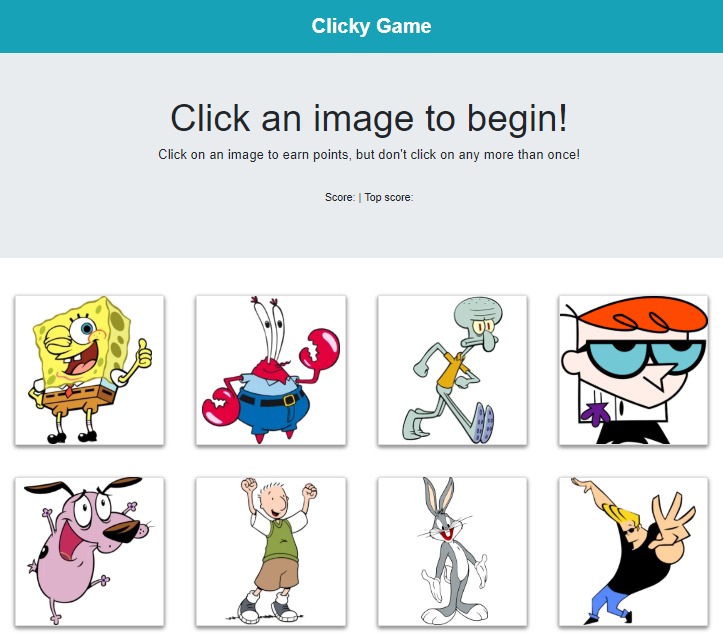
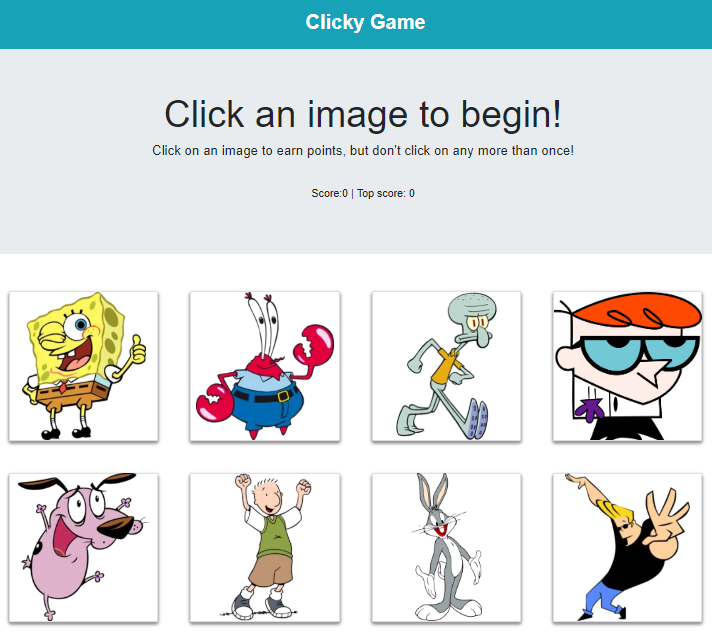
Updates

diff --git a/index.html b/index.html
@@ -1,1 +1,1 @@
-<!doctype html><html lang="en"><head><meta charset="utf-8"/><link rel="shortcut icon" href="/click-game/favicon.ico"/><meta name="viewport" content="width=device-width,initial-scale=1,shrink-to-fit=no"/><meta name="theme-color" content="#000000"/><link rel="manifest" href="/click-game/manifest.json"/><link rel="stylesheet" href="https://stackpath.bootstrapcdn.com/bootstrap/4.3.1/css/bootstrap.min.css" integrity="sha384-ggOyR0iXCbMQv3Xipma34MD+dH/1fQ784/j6cY/iJTQUOhcWr7x9JvoRxT2MZw1T" crossorigin="anonymous"><title>Clicky Game</title><link href="/click-game/static/css/main.f2d32bf1.chunk.css" rel="stylesheet"></head><body><noscript>You need to enable JavaScript to run this app.</noscript><div id="root"></div><script>!function(f){function e(e){for(var r,t,n=e[0],o=e[1],u=e[2],i=0,l=[];i<n.length;i++)t=n[i],c[t]&&l.push(c[t][0]),c[t]=0;for(r in o)Object.prototype.hasOwnProperty.call(o,r)&&(f[r]=o[r]);for(s&&s(e);l.length;)l.shift()();return p.push.apply(p,u||[]),a()}function a(){for(var e,r=0;r<p.length;r++){for(var t=p[r],n=!0,o=1;o<t.length;o++){var u=t[o];0!==c[u]&&(n=!1)}n&&(p.splice(r--,1),e=i(i.s=t[0]))}return e}var t={},c={1:0},p=[];function i(e){if(t[e])return t[e].exports;var r=t[e]={i:e,l:!1,exports:{}};return f[e].call(r.exports,r,r.exports,i),r.l=!0,r.exports}i.m=f,i.c=t,i.d=function(e,r,t){i.o(e,r)||Object.defineProperty(e,r,{enumerable:!0,get:t})},i.r=function(e){"undefined"!=typeof Symbol&&Symbol.toStringTag&&Object.defineProperty(e,Symbol.toStringTag,{value:"Module"}),Object.defineProperty(e,"__esModule",{value:!0})},i.t=function(r,e){if(1&e&&(r=i(r)),8&e)return r;if(4&e&&"object"==typeof r&&r&&r.__esModule)return r;var t=Object.create(null);if(i.r(t),Object.defineProperty(t,"default",{enumerable:!0,value:r}),2&e&&"string"!=typeof r)for(var n in r)i.d(t,n,function(e){return r[e]}.bind(null,n));return t},i.n=function(e){var r=e&&e.__esModule?function(){return e.default}:function(){return e};return i.d(r,"a",r),r},i.o=function(e,r){return Object.prototype.hasOwnProperty.call(e,r)},i.p="/click-game/";var r=window.webpackJsonp=window.webpackJsonp||[],n=r.push.bind(r);r.push=e,r=r.slice();for(var o=0;o<r.length;o++)e(r[o]);var s=n;a()}([])</script><script src="/click-game/static/js/2.f60c3f33.chunk.js"></script><script src="/click-game/static/js/main.9148f375.chunk.js"></script></body></html><script src="https://code.jquery.com/jquery-3.3.1.slim.min.js" integrity="sha384-q8i/X+965DzO0rT7abK41JStQIAqVgRVzpbzo5smXKp4YfRvH+8abtTE1Pi6jizo" crossorigin="anonymous"></script><script src="https://cdnjs.cloudflare.com/ajax/libs/popper.js/1.14.7/umd/popper.min.js" integrity="sha384-UO2eT0CpHqdSJQ6hJty5KVphtPhzWj9WO1clHTMGa3JDZwrnQq4sF86dIHNDz0W1" crossorigin="anonymous"></script><script src="https://stackpath.bootstrapcdn.com/bootstrap/4.3.1/js/bootstrap.min.js" integrity="sha384-JjSmVgyd0p3pXB1rRibZUAYoIIy6OrQ6VrjIEaFf/nJGzIxFDsf4x0xIM+B07jRM" crossorigin="anonymous"></script>
+<!doctype html><html lang="en"><head><meta charset="utf-8"/><link rel="shortcut icon" href="/click-game/favicon.ico"/><meta name="viewport" content="width=device-width,initial-scale=1,shrink-to-fit=no"/><meta name="theme-color" content="#000000"/><link rel="manifest" href="/click-game/manifest.json"/><link rel="stylesheet" href="https://stackpath.bootstrapcdn.com/bootstrap/4.3.1/css/bootstrap.min.css" integrity="sha384-ggOyR0iXCbMQv3Xipma34MD+dH/1fQ784/j6cY/iJTQUOhcWr7x9JvoRxT2MZw1T" crossorigin="anonymous"><title>Clicky Game</title><link href="/click-game/static/css/main.f2d32bf1.chunk.css" rel="stylesheet"></head><body><noscript>You need to enable JavaScript to run this app.</noscript><div id="root"></div><script>!function(f){function e(e){for(var r,t,n=e[0],o=e[1],u=e[2],i=0,l=[];i<n.length;i++)t=n[i],c[t]&&l.push(c[t][0]),c[t]=0;for(r in o)Object.prototype.hasOwnProperty.call(o,r)&&(f[r]=o[r]);for(s&&s(e);l.length;)l.shift()();return p.push.apply(p,u||[]),a()}function a(){for(var e,r=0;r<p.length;r++){for(var t=p[r],n=!0,o=1;o<t.length;o++){var u=t[o];0!==c[u]&&(n=!1)}n&&(p.splice(r--,1),e=i(i.s=t[0]))}return e}var t={},c={1:0},p=[];function i(e){if(t[e])return t[e].exports;var r=t[e]={i:e,l:!1,exports:{}};return f[e].call(r.exports,r,r.exports,i),r.l=!0,r.exports}i.m=f,i.c=t,i.d=function(e,r,t){i.o(e,r)||Object.defineProperty(e,r,{enumerable:!0,get:t})},i.r=function(e){"undefined"!=typeof Symbol&&Symbol.toStringTag&&Object.defineProperty(e,Symbol.toStringTag,{value:"Module"}),Object.defineProperty(e,"__esModule",{value:!0})},i.t=function(r,e){if(1&e&&(r=i(r)),8&e)return r;if(4&e&&"object"==typeof r&&r&&r.__esModule)return r;var t=Object.create(null);if(i.r(t),Object.defineProperty(t,"default",{enumerable:!0,value:r}),2&e&&"string"!=typeof r)for(var n in r)i.d(t,n,function(e){return r[e]}.bind(null,n));return t},i.n=function(e){var r=e&&e.__esModule?function(){return e.default}:function(){return e};return i.d(r,"a",r),r},i.o=function(e,r){return Object.prototype.hasOwnProperty.call(e,r)},i.p="/click-game/";var r=window.webpackJsonp=window.webpackJsonp||[],n=r.push.bind(r);r.push=e,r=r.slice();for(var o=0;o<r.length;o++)e(r[o]);var s=n;a()}([])</script><script src="/click-game/static/js/2.f60c3f33.chunk.js"></script><script src="/click-game/static/js/main.c7987f36.chunk.js"></script></body></html><script src="https://code.jquery.com/jquery-3.3.1.slim.min.js" integrity="sha384-q8i/X+965DzO0rT7abK41JStQIAqVgRVzpbzo5smXKp4YfRvH+8abtTE1Pi6jizo" crossorigin="anonymous"></script><script src="https://cdnjs.cloudflare.com/ajax/libs/popper.js/1.14.7/umd/popper.min.js" integrity="sha384-UO2eT0CpHqdSJQ6hJty5KVphtPhzWj9WO1clHTMGa3JDZwrnQq4sF86dIHNDz0W1" crossorigin="anonymous"></script><script src="https://stackpath.bootstrapcdn.com/bootstrap/4.3.1/js/bootstrap.min.js" integrity="sha384-JjSmVgyd0p3pXB1rRibZUAYoIIy6OrQ6VrjIEaFf/nJGzIxFDsf4x0xIM+B07jRM" crossorigin="anonymous"></script>

diff --git a/static/js/main.c7987f36.chunk.js b/static/js/main.c7987f36.chunk.js
@@ -1,0 +1,2 @@
+(window.webpackJsonp=window.webpackJsonp||[]).push([[0],[,,,,,,function(e){e.exports=[{id:1,name:"SpongeBob",image:"https://vignette.wikia.nocookie.net/spongebobgalaxy/images/0/07/SpongeBob_SquarePants.png/revision/latest?cb=20171228024014",occupation:"Fry Cook",location:"A Pineapple Under the Sea"},{id:2,name:"Mr. Krabs",image:"https://vignette3.wikia.nocookie.net/vsbattles/images/8/80/Mr._Krabs.png/revision/latest?cb=20150919162131",occupation:"Restaurant Owner",location:"A Giant Anchor"},{id:3,name:"Squidward",image:"https://vignette2.wikia.nocookie.net/fictionalcharacters/images/a/ac/Squidward.png/revision/latest?cb=20131121012626",occupation:"Cashier",location:"An Easter Island Head"},{id:4,name:"Dexter",image:"https://s-media-cache-ak0.pinimg.com/originals/fe/32/49/fe32495d45283cd6860ae122f0aeaad9.png",occupation:"Boy Genius",location:"A Secret Laboratory"},{id:5,name:"Courage",image:"https://vignette4.wikia.nocookie.net/vsbattles/images/3/39/Courage-0.png/revision/latest?cb=20160719055423",occupation:"A Cowardly Dog",location:"Nowhere, Kansas"},{id:6,name:"Doug Funnie",image:"https://vignette1.wikia.nocookie.net/doug/images/3/3b/Doug001.gif/revision/latest?cb=20110807170511",occupation:"Student",location:"Bluffington"},{id:7,name:"Bugs Bunny",image:"https://vignette2.wikia.nocookie.net/deathbattlefanon/images/2/2b/Bugs_Bunny.png/revision/latest?cb=20151206010607",occupation:"Looney Toon",location:"A Rabbit Burrow"},{id:8,name:"Johnny Bravo",image:"http://vignette3.wikia.nocookie.net/p__/images/9/9a/Johnny_Bravo.png/revision/latest?cb=20131031233339&path-prefix=protagonist",occupation:"Ladies Man",location:"Aron City"},{id:9,name:"Tommy Pickles",image:"https://vignette4.wikia.nocookie.net/uncyclopedia/images/e/e4/Tommy_Pickles.png/revision/latest?cb=20110530102641",occupation:"Adventurer",location:"California"},{id:10,name:"Rocko",image:"http://vignette3.wikia.nocookie.net/rockosmodernlife/images/9/9e/Rockos-modern-life-4e582a8f06a41.png/revision/latest?cb=20130522173416",occupation:"Cashier",location:"O-Town, California"},{id:11,name:"Captain Planet",image:"http://vignette2.wikia.nocookie.net/dragon-rap-battles/images/b/b6/Captain_Planet.png/revision/latest?cb=20160911200836",occupation:"Superhero",location:"Earth"},{id:12,name:"Ickis",image:"http://static.tvtropes.org/pmwiki/pub/images/ickis.png",occupation:"Ahhhh! A Real Monster!",location:"Under a City Dump"}]},,,function(e,t,a){e.exports=a(21)},,,,,,function(e,t,a){},function(e,t,a){},function(e,t,a){},function(e,t,a){},function(e,t,a){},function(e,t,a){},function(e,t,a){"use strict";a.r(t);var n=a(0),o=a.n(n),i=a(2),r=a.n(i),c=a(3),s=a(4),l=a(7),m=a(5),u=a(8);a(15);var g=function(e){return o.a.createElement("div",{className:"card m-4 lg-sm-md",onClick:function(){return e.shuffleImages(e)}},o.a.createElement("img",{className:"card-img-top",alt:e.name,src:e.image}))};a(16);var p=function(e){return o.a.createElement("div",{className:"container"},e.children)};a(17);var d=function(e){return o.a.createElement("div",{className:"jumbotron jumbotron-fluid"},o.a.createElement("div",{className:"container"},o.a.createElement("h1",{className:"display-4 text-center"},"Click an image to begin!"),o.a.createElement("p",{className:"lead text-center"},"Click on an image to earn points, but don't click on any more than once!"),o.a.createElement("br",null),o.a.createElement("p",{className:"scores text-center"},"Score:",e.score," | Top score: ",e.topScore)))};a(18);var f=function(){return o.a.createElement("nav",{className:"navbar navbar-expand-lg navbar-light bg-info"},o.a.createElement("a",{className:"navbarText navbar-brand text-center",href:"https://vaheminasyan2.github.io/click-game"},"Clicky Game"))};var h=function(e){return o.a.createElement("div",{className:"container"},e.children)};var v=function(e){return o.a.createElement("div",{className:"row"},e.children)};a(19);var b=function(){return o.a.createElement("footer",{className:"footer footer-expand-lg footer-light bg-info"},o.a.createElement("div",{className:"container footerContainer"},o.a.createElement("span",{className:"text-muted text-center footerText"},"Clicky Game")))},k=a(6),E=function(e){function t(){var e,a;Object(c.a)(this,t);for(var n=arguments.length,o=new Array(n),i=0;i<n;i++)o[i]=arguments[i];return(a=Object(l.a)(this,(e=Object(m.a)(t)).call.apply(e,[this].concat(o)))).state={images:k,score:0,topScore:0,userArr:[]},a.shuffleImages=function(e){a.state.userArr.includes(e.id)?(a.setState({score:0}),a.setState({userArr:[]})):(a.state.userArr.push(e.id),a.setState({score:a.state.score+1}),a.state.topScore<=a.state.score&&a.setState({topScore:a.state.topScore+1}));var t,n,o,i=a.state.images;for(o=i.length-1;o>0;o--)t=Math.floor(Math.random()*(o+1)),n=i[o],i[o]=i[t],i[t]=n;a.setState({a:i})},a}return Object(u.a)(t,e),Object(s.a)(t,[{key:"render",value:function(){var e=this;return o.a.createElement(p,null,o.a.createElement(f,null),o.a.createElement(d,{score:this.state.score,topScore:this.state.topScore}),o.a.createElement(h,null,o.a.createElement(v,null,this.state.images.map(function(t){return o.a.createElement(g,{shuffleImages:e.shuffleImages,id:t.id,key:t.id,image:t.image})}))),o.a.createElement(b,null))}}]),t}(n.Component);a(20);r.a.render(o.a.createElement(E,null),document.getElementById("root"))}],[[9,1,2]]]);
+//# sourceMappingURL=main.c7987f36.chunk.js.map

diff --git a/precache-manifest.f5d5c9e4c9a5975b1c86a9bab1f779a5.js b/precache-manifest.f5d5c9e4c9a5975b1c86a9bab1f779a5.js
@@ -4,19 +4,19 @@ self.__precacheManifest = [
     "url": "/click-game/static/js/runtime~main.a99f9c06.js"
   },
   {
-    "revision": "da7b70e42a8f091da98b",
-    "url": "/click-game/static/js/main.9148f375.chunk.js"
+    "revision": "b75e4cb695d00581e373",
+    "url": "/click-game/static/js/main.c7987f36.chunk.js"
   },
   {
     "revision": "5bf9b2cda7c63b962686",
     "url": "/click-game/static/js/2.f60c3f33.chunk.js"
   },
   {
-    "revision": "da7b70e42a8f091da98b",
+    "revision": "b75e4cb695d00581e373",
     "url": "/click-game/static/css/main.f2d32bf1.chunk.css"
   },
   {
-    "revision": "f9fb478483fd1fa59d94dc8924e2d423",
+    "revision": "e1e76a9ea0ad7ea5bbbf110657d7f1f6",
     "url": "/click-game/index.html"
   }
 ];

diff --git a/service-worker.js b/service-worker.js
@@ -14,7 +14,7 @@
 importScripts("https://storage.googleapis.com/workbox-cdn/releases/3.6.3/workbox-sw.js");
 
 importScripts(
-  "/click-game/precache-manifest.458c018e08e9bc8db9370b85707a0493.js"
+  "/click-game/precache-manifest.f5d5c9e4c9a5975b1c86a9bab1f779a5.js"
 );
 
 workbox.clientsClaim();
